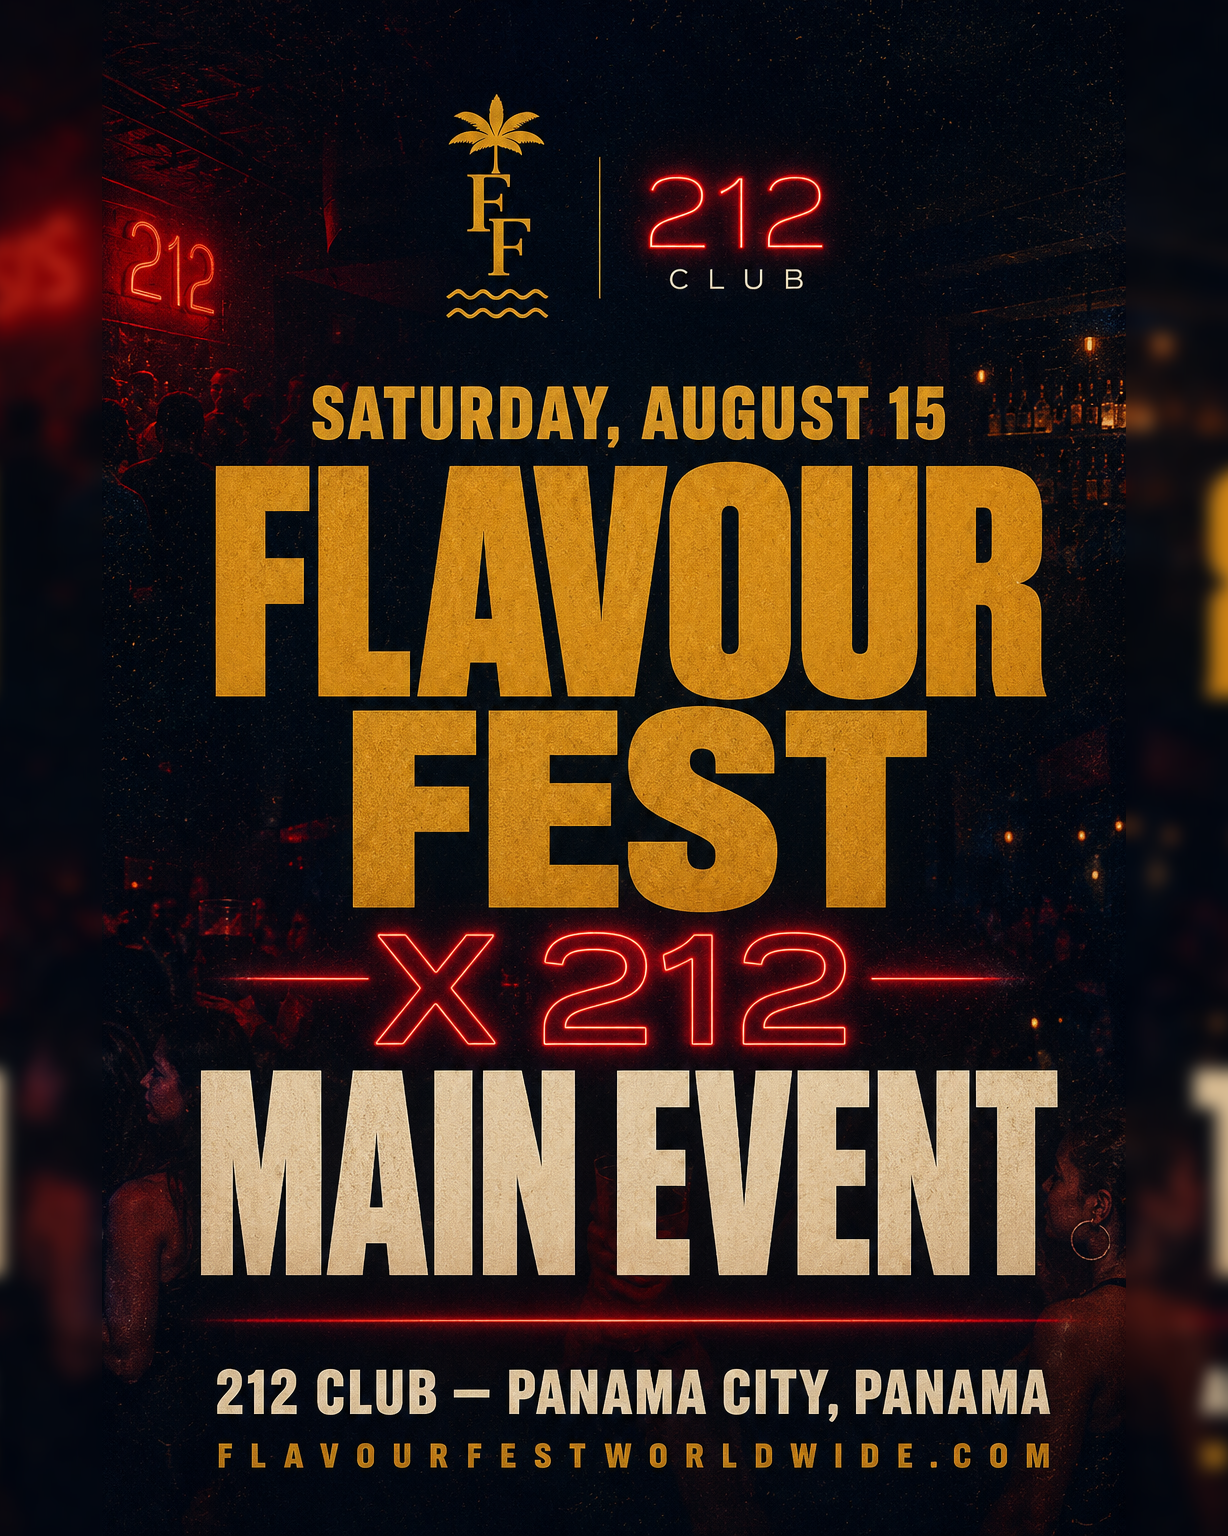
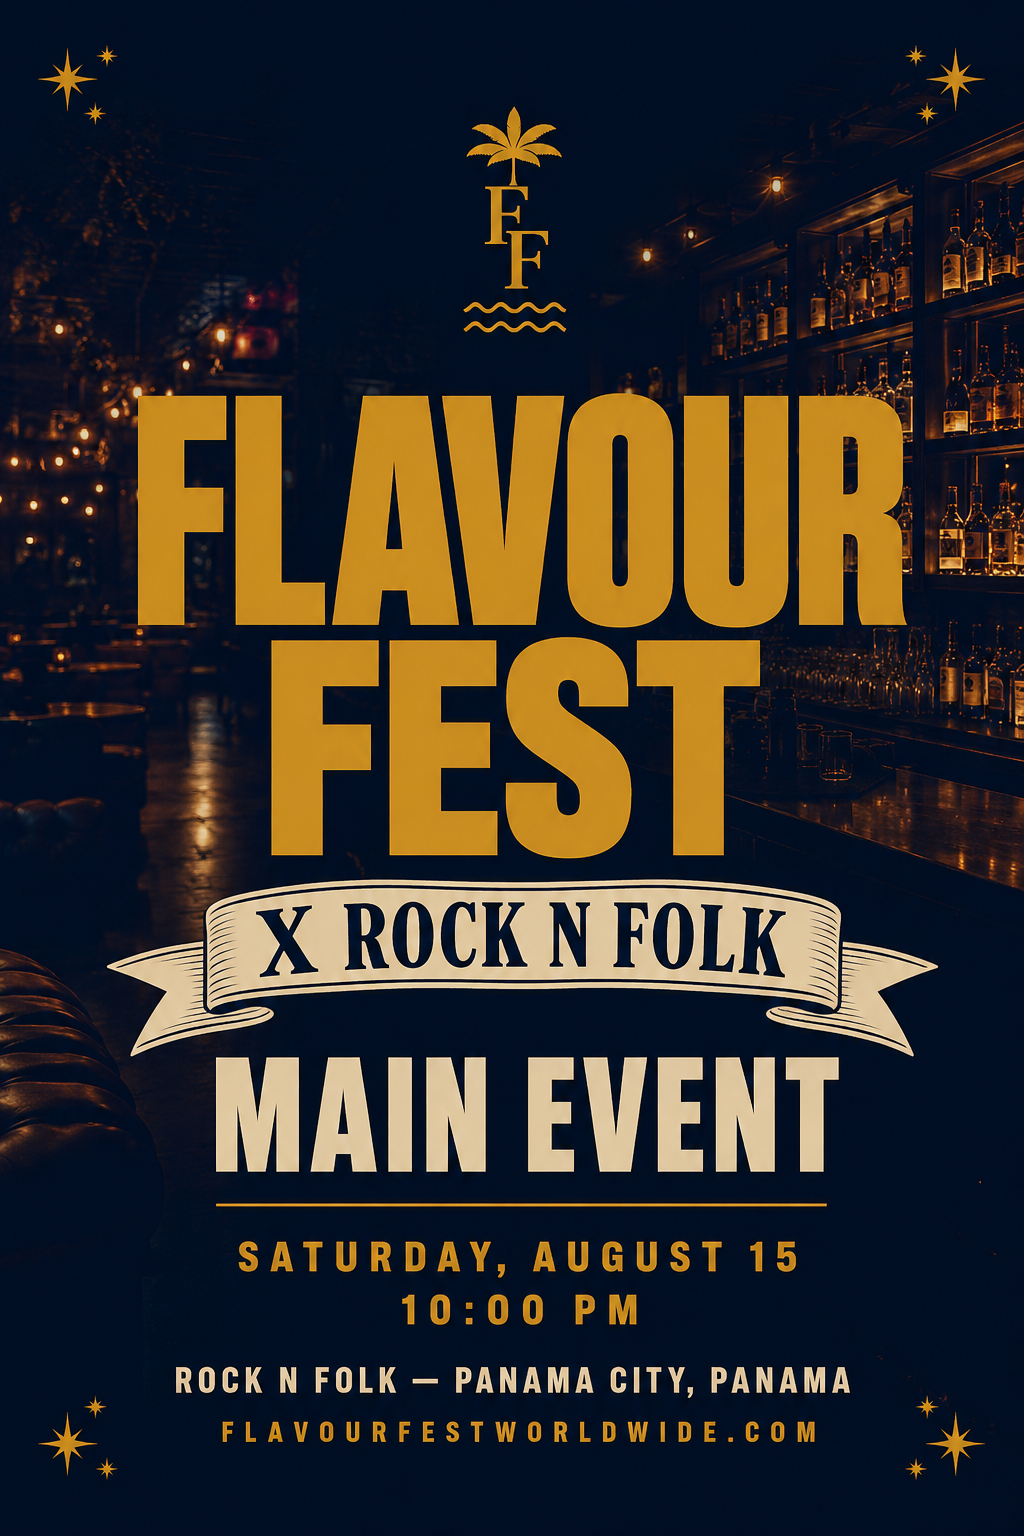
update main event flyer for Rock and Folk

diff --git a/index.html b/index.html
@@ -268,56 +268,6 @@
   .foot-links a:hover{color:var(--cream);}
   .foot-tag{font-family:'Space Mono', monospace; font-size:11px; color:var(--cream-dim); letter-spacing:0.05em;}
 
-  /* ---------- early access popup ---------- */
-  .ea-overlay{
-    display:none; position:fixed; inset:0; z-index:50;
-    background:rgba(0,0,0,0.7); backdrop-filter:blur(4px);
-    align-items:center; justify-content:center; padding:20px;
-  }
-  .ea-overlay.open{display:flex;}
-  .ea-card{
-    position:relative; max-width:460px; width:100%;
-    background:var(--ink-soft); border:1px solid var(--line); border-radius:20px;
-    padding:44px 38px; text-align:center;
-    box-shadow:0 30px 80px rgba(0,0,0,0.5);
-  }
-  .ea-glow{
-    position:absolute; inset:0; border-radius:20px; overflow:hidden; z-index:-1;
-    background:radial-gradient(60% 60% at 50% 0%, rgba(255,122,61,0.25), transparent 70%);
-  }
-  .ea-close{
-    position:absolute; top:16px; right:16px; background:none; border:none; cursor:pointer;
-    color:var(--cream-dim); font-size:20px; line-height:1; padding:6px;
-  }
-  .ea-close:hover{color:var(--cream);}
-  .ea-card h3{
-    font-family:'Fraunces', serif; font-weight:900; font-size:28px; line-height:1.1; margin-top:16px;
-  }
-  .ea-card h3 em{font-style:italic; color:var(--mango); font-weight:500;}
-  .ea-card p{color:var(--cream-dim); font-size:14px; margin-top:14px; line-height:1.6;}
-  .ea-perks{
-    margin-top:20px; display:flex; flex-direction:column; gap:8px; text-align:left;
-  }
-  .ea-perks div{
-    display:flex; align-items:center; gap:10px; font-size:13px; color:var(--cream);
-  }
-  .ea-perks div::before{content:'✦'; color:var(--gold); font-size:12px;}
-  .ea-form{margin-top:26px; display:flex; flex-direction:column; gap:10px;}
-  .ea-form input{
-    background:transparent; border:1px solid var(--line); border-radius:100px;
-    padding:14px 20px; color:var(--cream); font-size:14px; font-family:'General Sans', sans-serif; text-align:center;
-  }
-  .ea-form input:focus{outline:none; border-color:var(--gold);}
-  .ea-form button{
-    border:none; background:var(--gradient-sunset); color:var(--ink); font-weight:600; font-size:15px;
-    padding:14px; border-radius:100px; cursor:pointer;
-  }
-  .ea-form button:disabled{opacity:0.6; cursor:default;}
-  .ea-note{margin-top:12px; font-family:'Space Mono', monospace; font-size:11px; color:var(--cream-dim);}
-  .ea-success{display:none; padding:20px 0;}
-  .ea-success.show{display:block;}
-  .ea-success h3{margin-top:0;}
-
   /* ---------- hamburger menu ---------- */
   .hamburger{
     display:none; flex-direction:column; justify-content:center; gap:5px;
@@ -359,36 +309,6 @@
 <body>
 
 <div class="grain"></div>
-
-<!-- ============ EARLY ACCESS POPUP ============ -->
-<div class="ea-overlay" id="ea-overlay">
-  <div class="ea-card">
-    <div class="ea-glow"></div>
-    <button class="ea-close" id="ea-close" aria-label="Close">✕</button>
-
-    <div id="ea-form-state">
-      <div class="eyebrow" style="justify-content:center;">2027 Is Coming</div>
-      <h3>Get in before <em>everyone else.</em></h3>
-      <p>Sign up now and you'll get early access to 2027 packages before public registration opens — plus exclusive discounts on future Flavour Fest tickets.</p>
-      <div class="ea-perks">
-        <div>First access to 2027 city announcements</div>
-        <div>Discounted packages before public pricing</div>
-        <div>Priority ticket windows for future events</div>
-      </div>
-      <form class="ea-form" id="ea-form">
-        <input type="email" id="ea-email" placeholder="you@email.com" required>
-        <button type="submit" id="ea-submit">Get Early Access</button>
-      </form>
-      <div class="ea-note" id="ea-note">No spam. Just first access.</div>
-    </div>
-
-    <div class="ea-success" id="ea-success">
-      <div class="eyebrow" style="justify-content:center;">You're In</div>
-      <h3>Welcome to the <em>inner circle.</em></h3>
-      <p>Check your inbox — we just sent you a confirmation. You'll be first to know when 2027 opens up.</p>
-    </div>
-  </div>
-</div>
 
 <header>
   <div class="wordmark">FLAVOUR <em>FEST</em></div>
@@ -591,62 +511,6 @@
   tick();
   setInterval(tick, 30000);
 
-  // Early access popup
-  (function(){
-    var STORAGE_KEY = 'ff_early_access_seen';
-    var overlay = document.getElementById('ea-overlay');
-    var closeBtn = document.getElementById('ea-close');
-    var form = document.getElementById('ea-form');
-    var submitBtn = document.getElementById('ea-submit');
-    var note = document.getElementById('ea-note');
-    var formState = document.getElementById('ea-form-state');
-    var successState = document.getElementById('ea-success');
-
-    function openPopup(){ overlay.classList.add('open'); }
-    function closePopup(){
-      overlay.classList.remove('open');
-      localStorage.setItem(STORAGE_KEY, 'true');
-    }
-
-    if (!localStorage.getItem(STORAGE_KEY)) {
-      setTimeout(openPopup, 6000);
-    }
-
-    closeBtn.addEventListener('click', closePopup);
-    overlay.addEventListener('click', function(e){
-      if (e.target === overlay) closePopup();
-    });
-
-    form.addEventListener('submit', async function(e){
-      e.preventDefault();
-      var email = document.getElementById('ea-email').value;
-      submitBtn.disabled = true;
-      submitBtn.textContent = 'Signing up...';
-      note.textContent = '';
-      try {
-        var res = await fetch('/api/subscribe', {
-          method: 'POST',
-          headers: {'Content-Type': 'application/json'},
-          body: JSON.stringify({ email: email })
-        });
-        var data = await res.json();
-        if (res.ok) {
-          formState.style.display = 'none';
-          successState.classList.add('show');
-          localStorage.setItem(STORAGE_KEY, 'true');
-        } else {
-          note.textContent = data.error || "Something went wrong — try again.";
-          submitBtn.disabled = false;
-          submitBtn.textContent = 'Get Early Access';
-        }
-      } catch (err) {
-        note.textContent = "Something went wrong — try again.";
-        submitBtn.disabled = false;
-        submitBtn.textContent = 'Get Early Access';
-      }
-    });
-  })();
-
   // Hamburger menu toggle
   var hamburger = document.getElementById('hamburger');
   var mobileMenu = document.getElementById('mobile-menu');
@@ -663,4 +527,4 @@
 </script>
 
 </body>
-</html>s
+</html>
